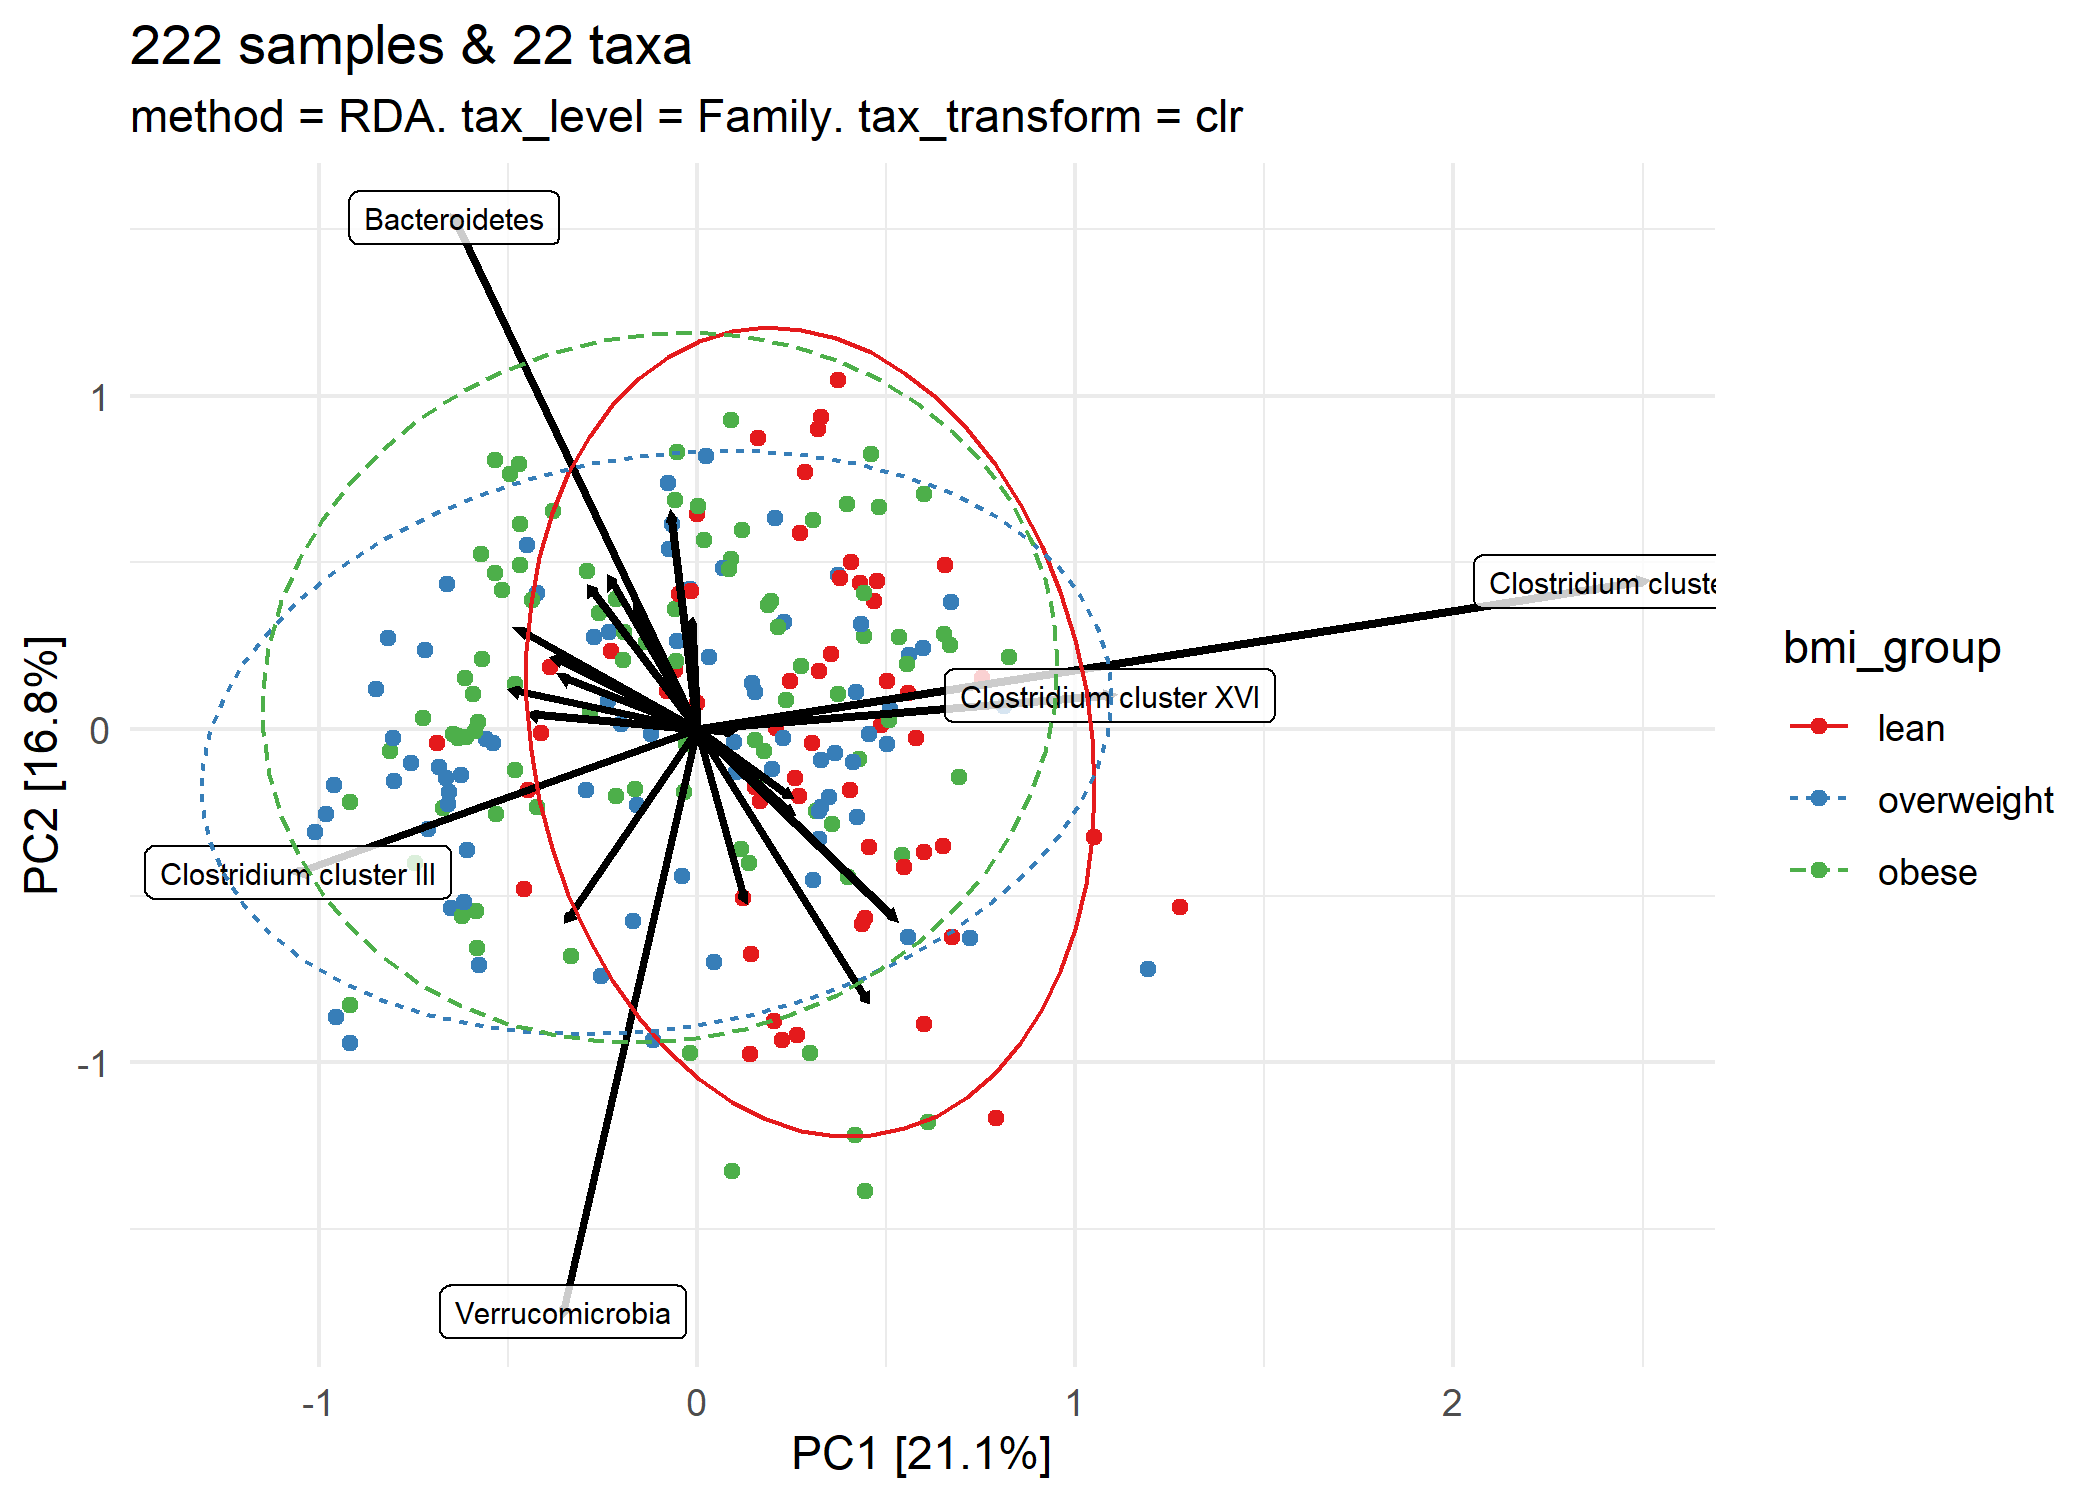
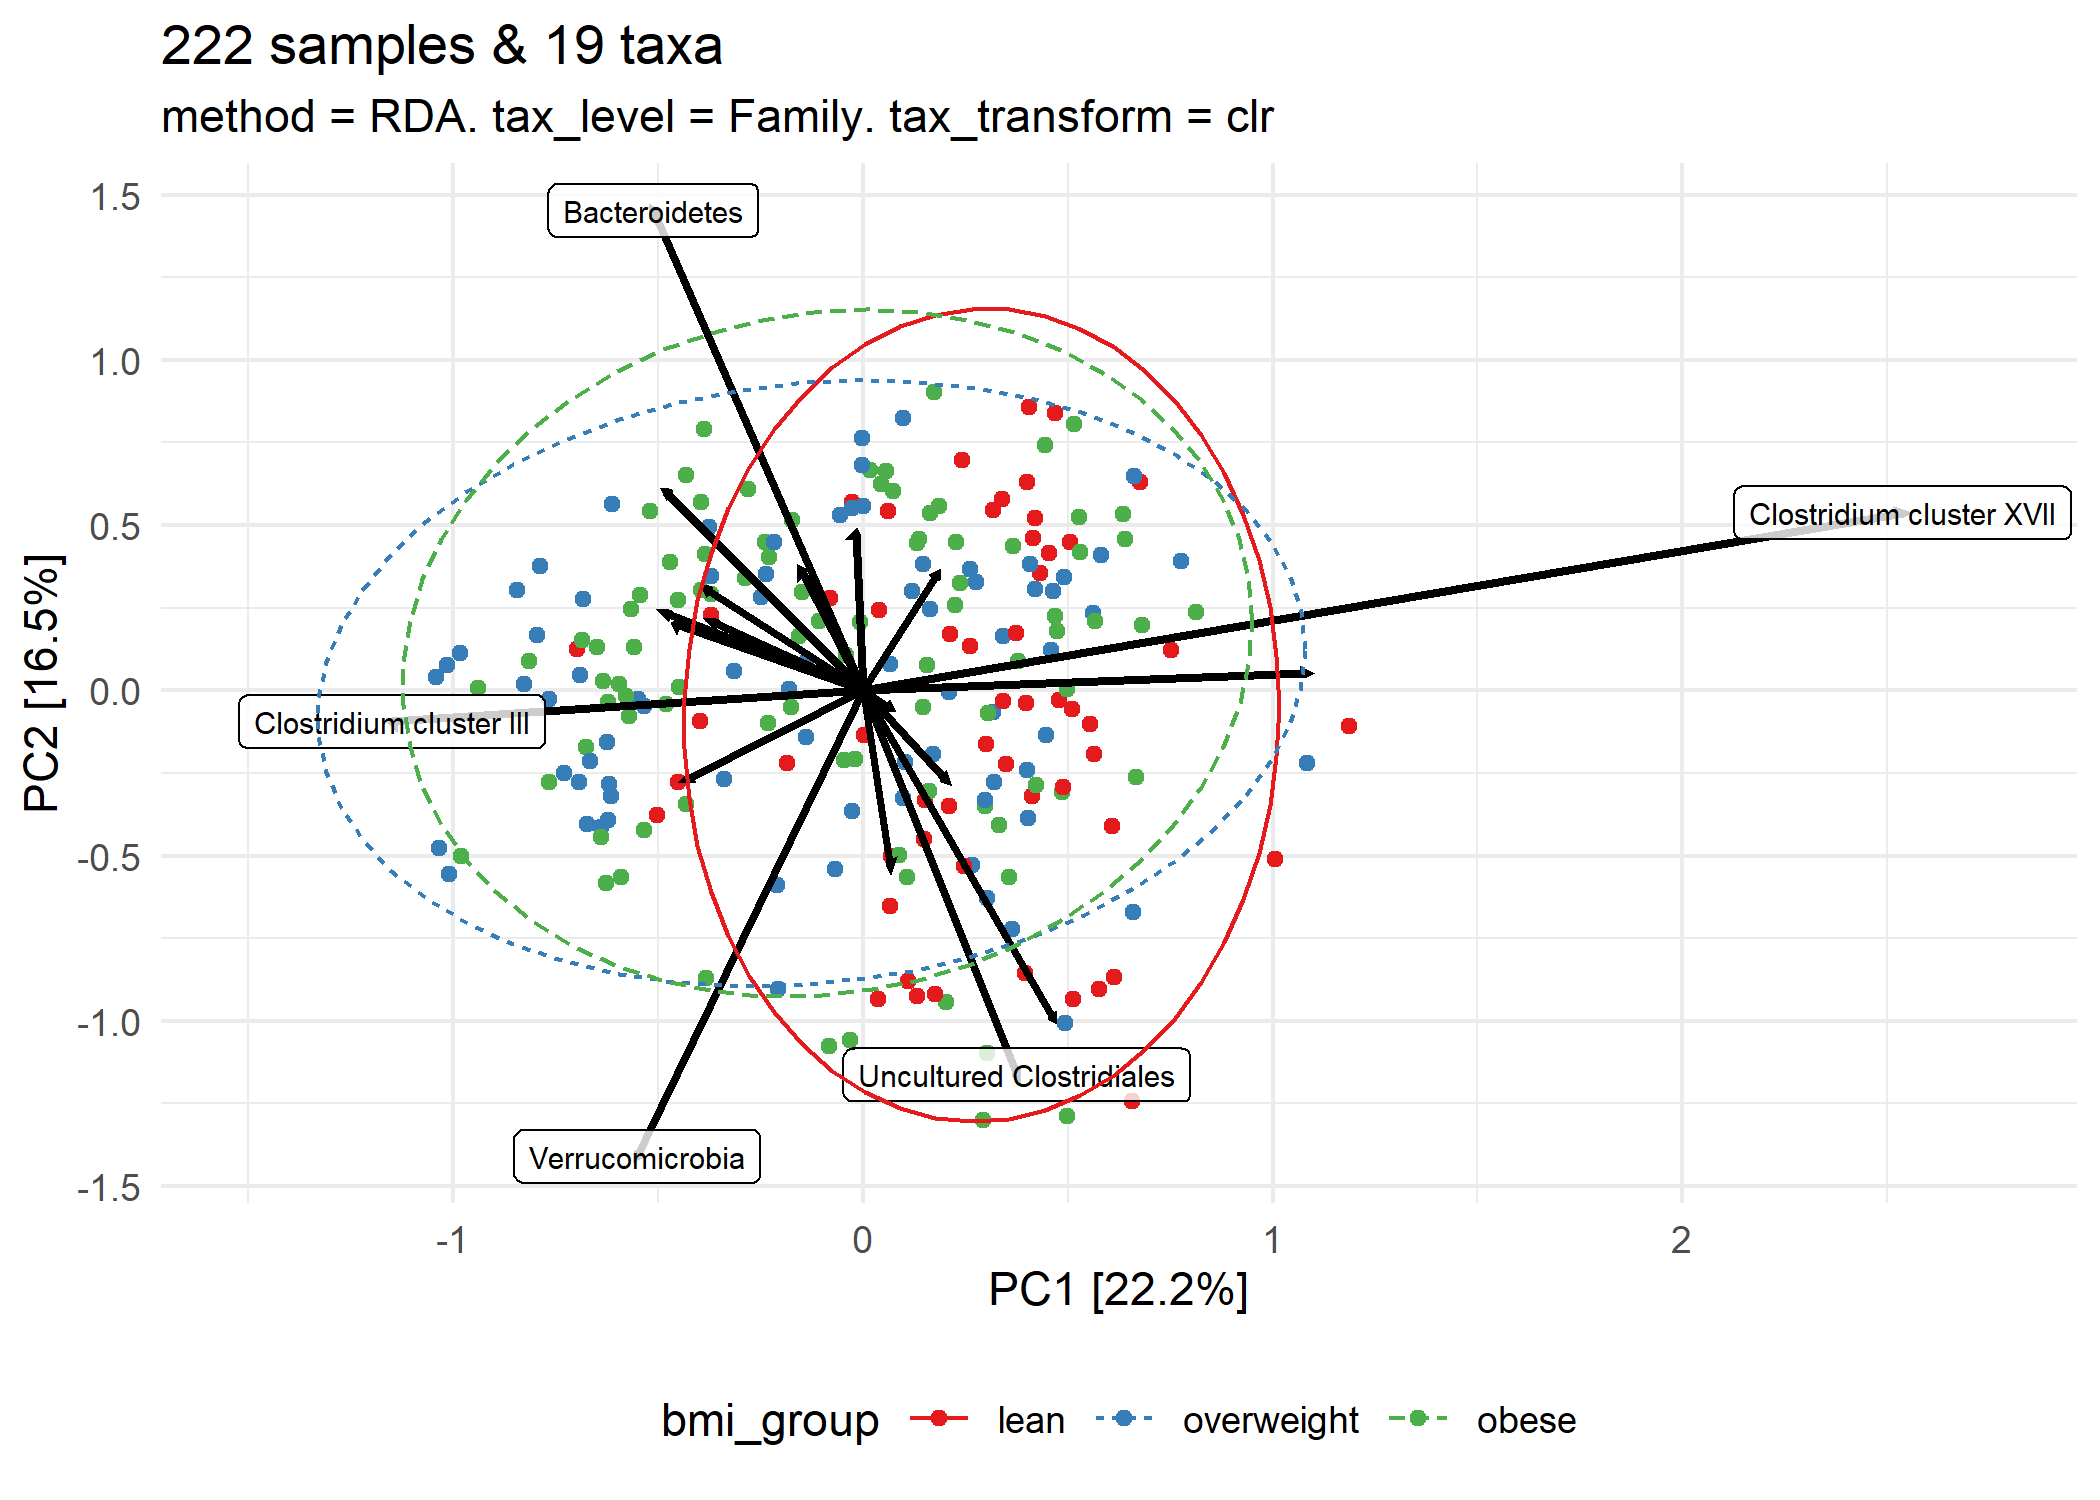
readme update

diff --git a/README.md b/README.md
@@ -21,7 +21,8 @@ code.
 # # How to authenticate your R to install from this private github repo # #
 # install.packages("usethis")
 # usethis::browse_github_pat() 
-# click "generate token" on the webpage and then follow instructions in the R console.
+# # click "generate token" on the webpage and then follow instructions in the R console.
+# # For more help see: https://happygitwithr.com/github-pat.html#step-by-step
 
 # # Installing the latest version of this package # #
 # install.packages("devtools")
@@ -60,31 +61,44 @@ differs markedly between groups, e.g. BMI.
 
 Here is one option to try first:
 
-1.  Aggregate the taxa into bacterial families (for example) - use
+1.  Filter out rare taxa (e.g. remove Genera not present in at least 10%
+    of samples) - use `tax_filter()`
+2.  Aggregate the taxa into bacterial families (for example) - use
     `tax_agg()`
-2.  Transform the microbial data with the centre-log-ratio
+3.  Transform the microbial data with the centre-log-ratio
     transformation - use `tax_transform()`
-3.  Perform PCA with the clr-transformed features (equivalent to
+4.  Perform PCA with the clr-transformed features (equivalent to
     aitchison distance PCoA) - use `ordin8()`
-4.  Plot the first 2 axes of this PCA ordination, colouring samples by
+5.  Plot the first 2 axes of this PCA ordination, colouring samples by
     group and adding taxon loading arrows to visualise which taxa
     generally differ across your samples - use `plot_ordin8()`
-5.  Customise the theme of the ggplot as you like and/or add features
+6.  Customise the theme of the ggplot as you like and/or add features
     like ellipses or annotations
 
 <!-- end list -->
 
 ``` r
+# perform ordination
 unconstrained_aitchison_pca <- 
   dietswap %>%
+  tax_filter(min_prevalence = 0.1, tax_level = 'Genus') %>% 
   tax_agg("Family") %>%
   tax_transform('clr') %>%
   ordin8(method = 'RDA')
+#> Proportional min_prevalence given: 0.1 --> min 23/222 samples.
 
-unconstrained_aitchison_pca %>%
-  plot_ordin8(plot_taxa = 1:5, colour = 'bmi_group', auto_title = TRUE) +
+# create plot
+pca_plot <- unconstrained_aitchison_pca %>%
+  plot_ordin8(plot_taxa = 1:5, colour = 'bmi_group', auto_title = TRUE)
+
+# customise plot
+customised_plot <- pca_plot + 
   stat_ellipse(aes(linetype = bmi_group, colour = bmi_group)) + 
-  scale_colour_brewer(palette = 'Set1')
+  scale_colour_brewer(palette = 'Set1') + 
+  xlim(c(-1.5,2.75)) + theme(legend.position = 'bottom')
+
+# show plot
+customised_plot
 ```
 
 <img src="man/figures/README-ordination-plot-1.png" width="100%" />
